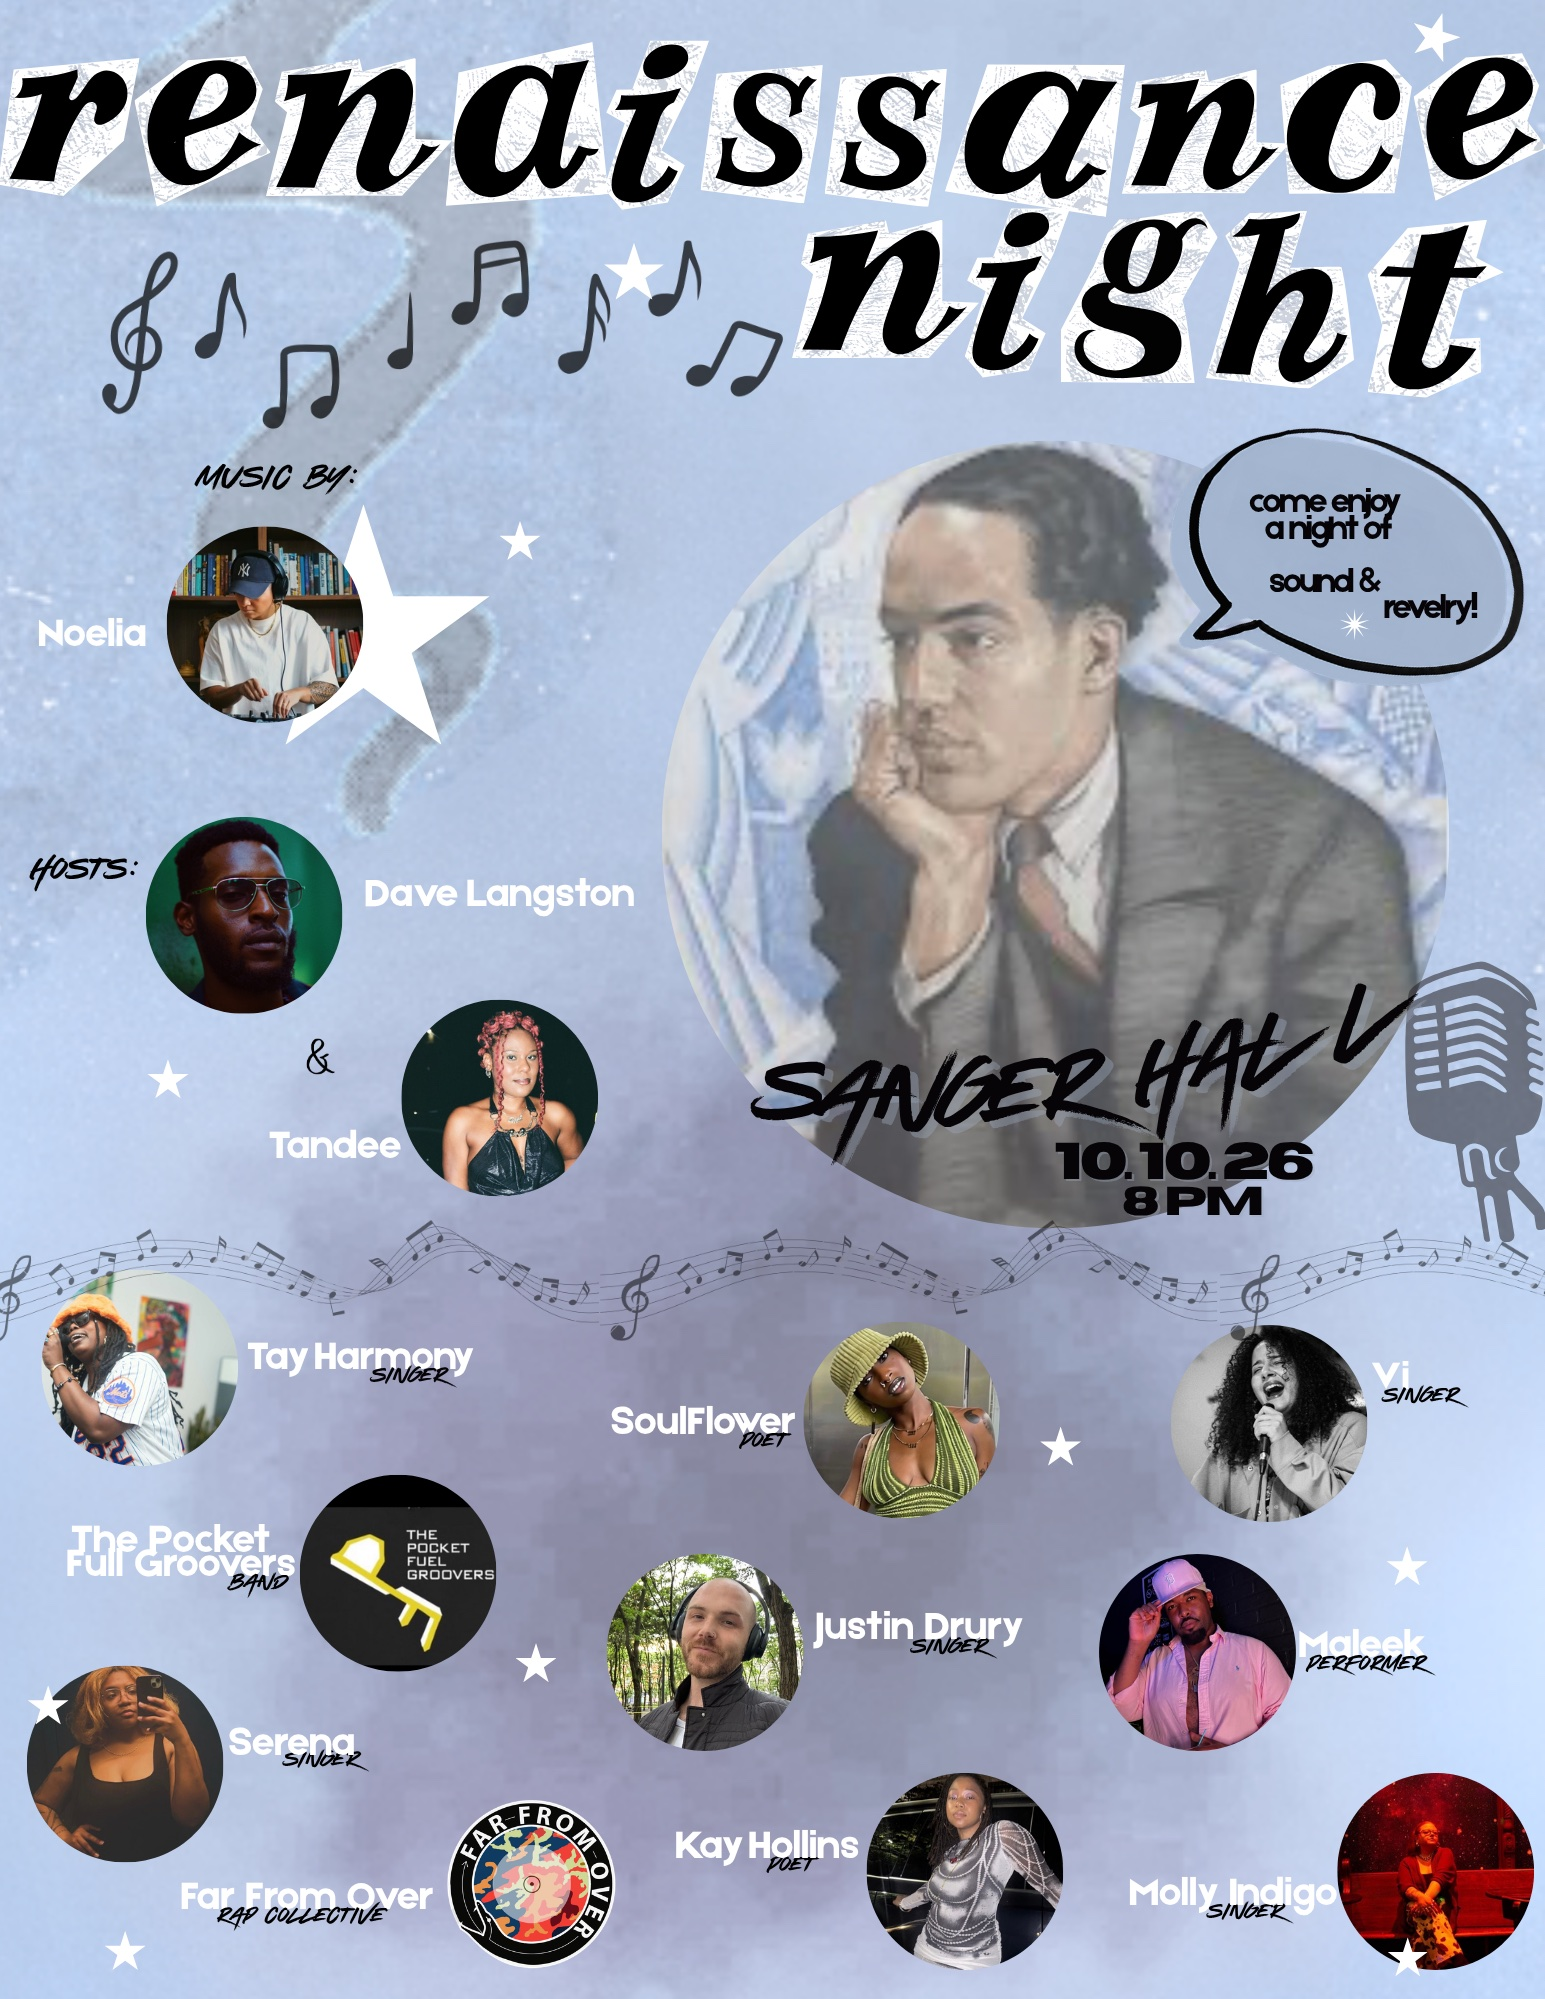
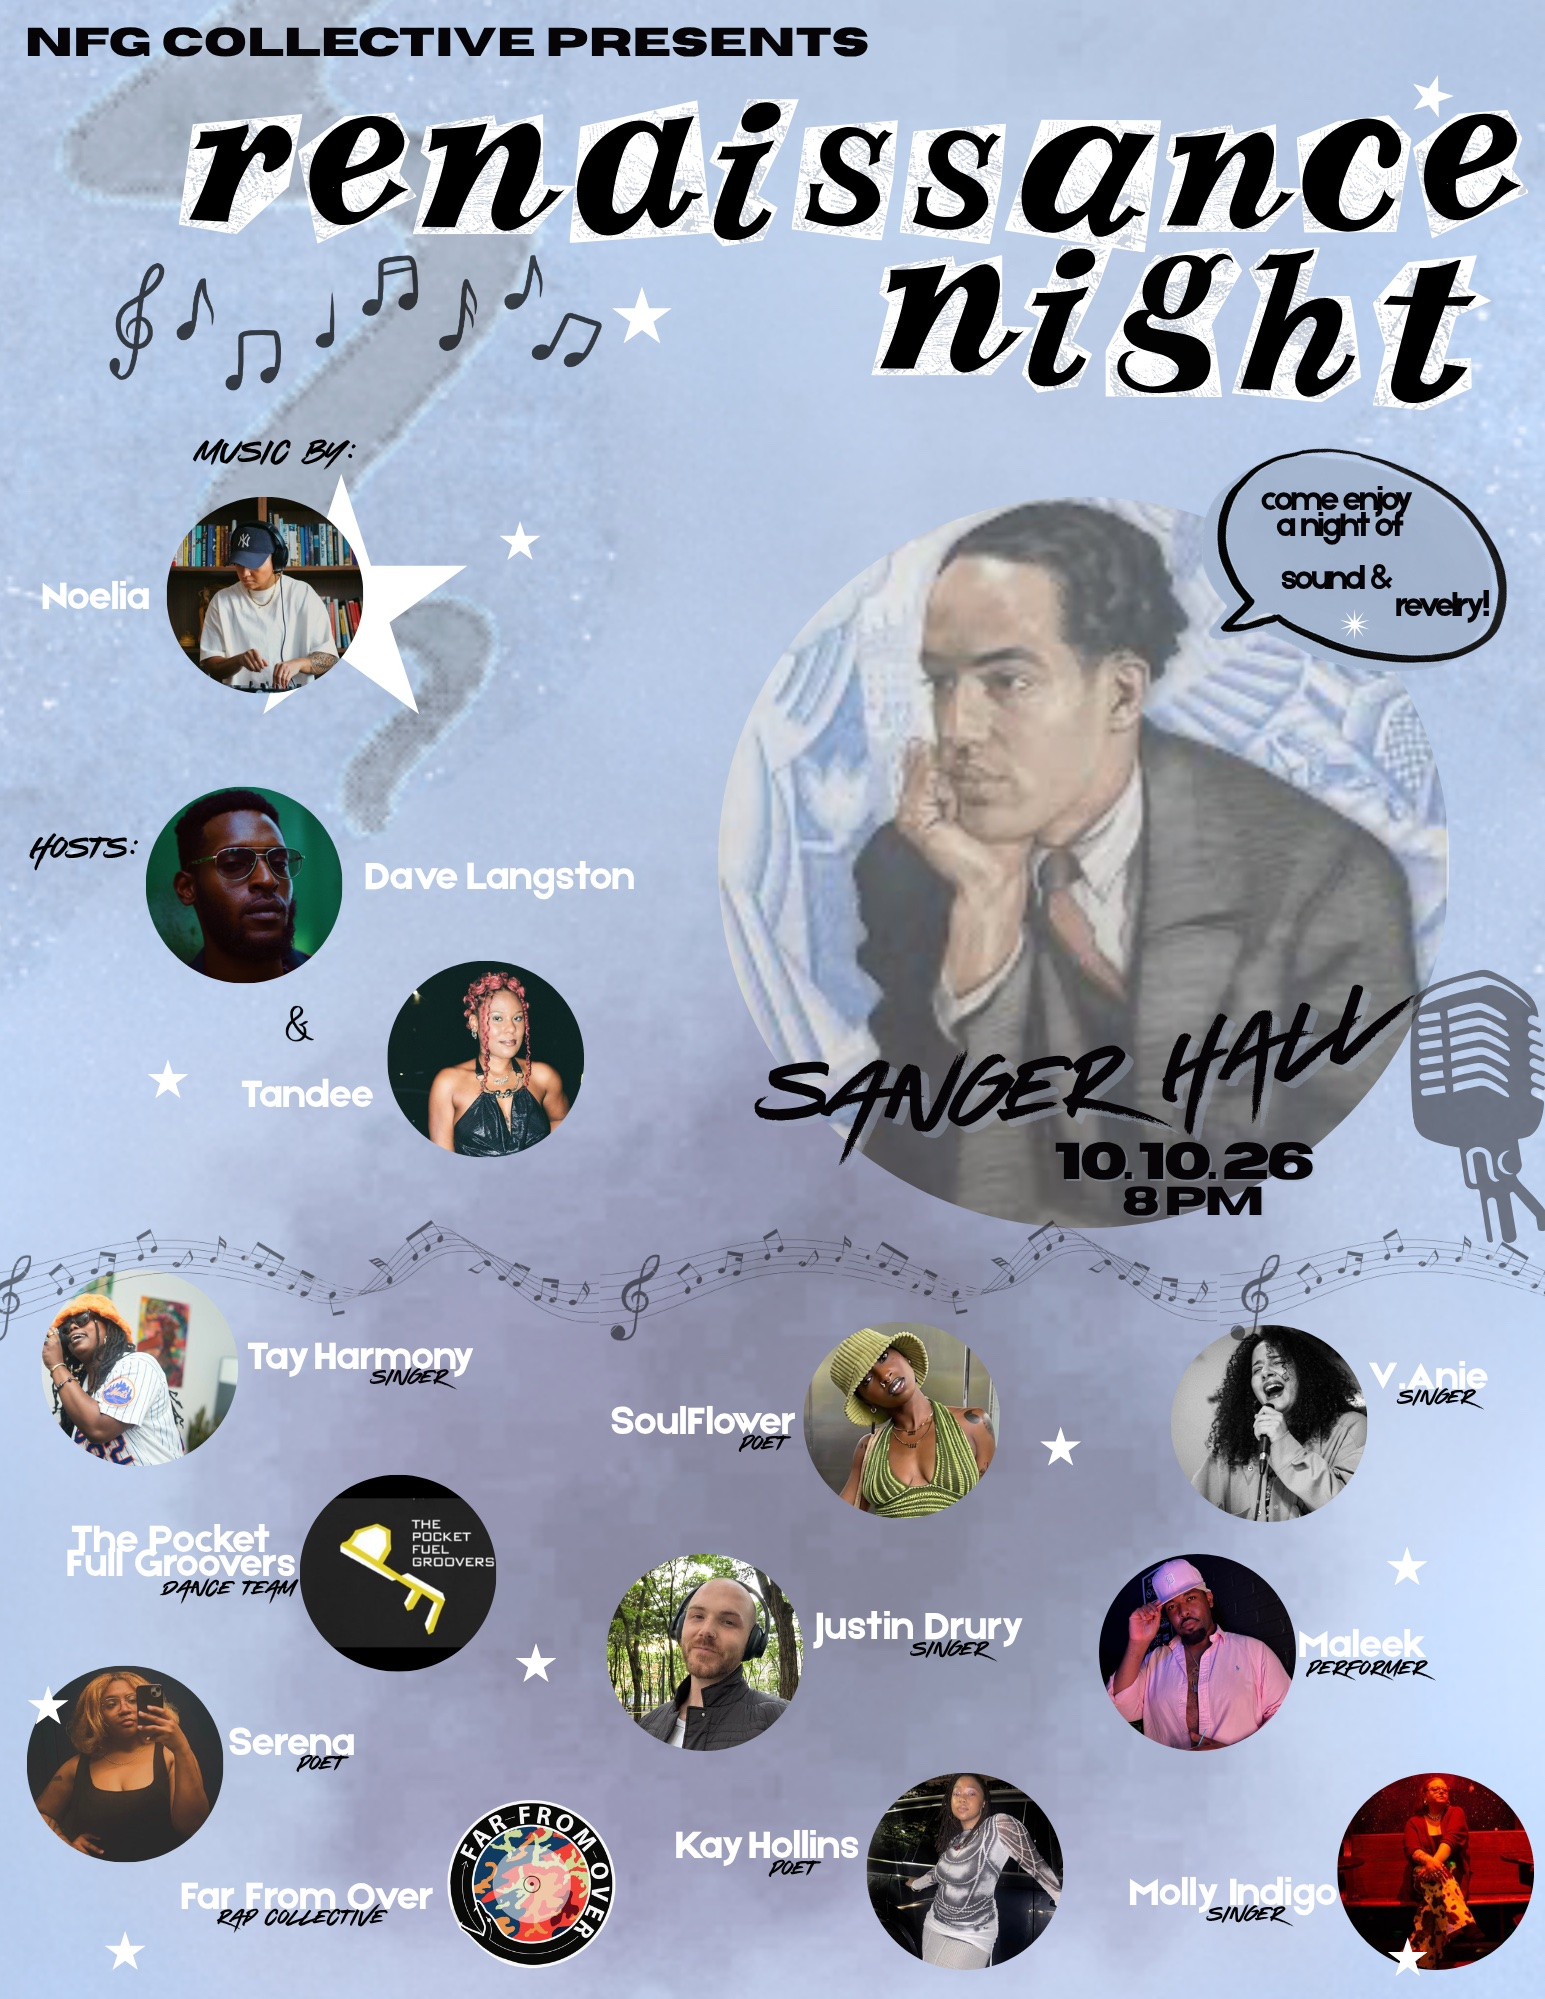
Use the final Renaissance Night poster
Swap in the last flyer and rename Vi to Vanie on the coming-to-see list to match it.

diff --git a/lib/coming-to-see.ts b/lib/coming-to-see.ts
@@ -4,7 +4,7 @@ export const COMING_TO_SEE_ARTISTS = [
   { id: "tandee", label: "Tandee" },
   { id: "tay-harmony", label: "Tay Harmony" },
   { id: "soulflower", label: "SoulFlower" },
-  { id: "vi", label: "Vi" },
+  { id: "vanie", label: "Vanie" },
   { id: "pocket-full-groovers", label: "The Pocket Full Groovers" },
   { id: "justin-drury", label: "Justin Drury" },
   { id: "maleek", label: "Maleek" },
